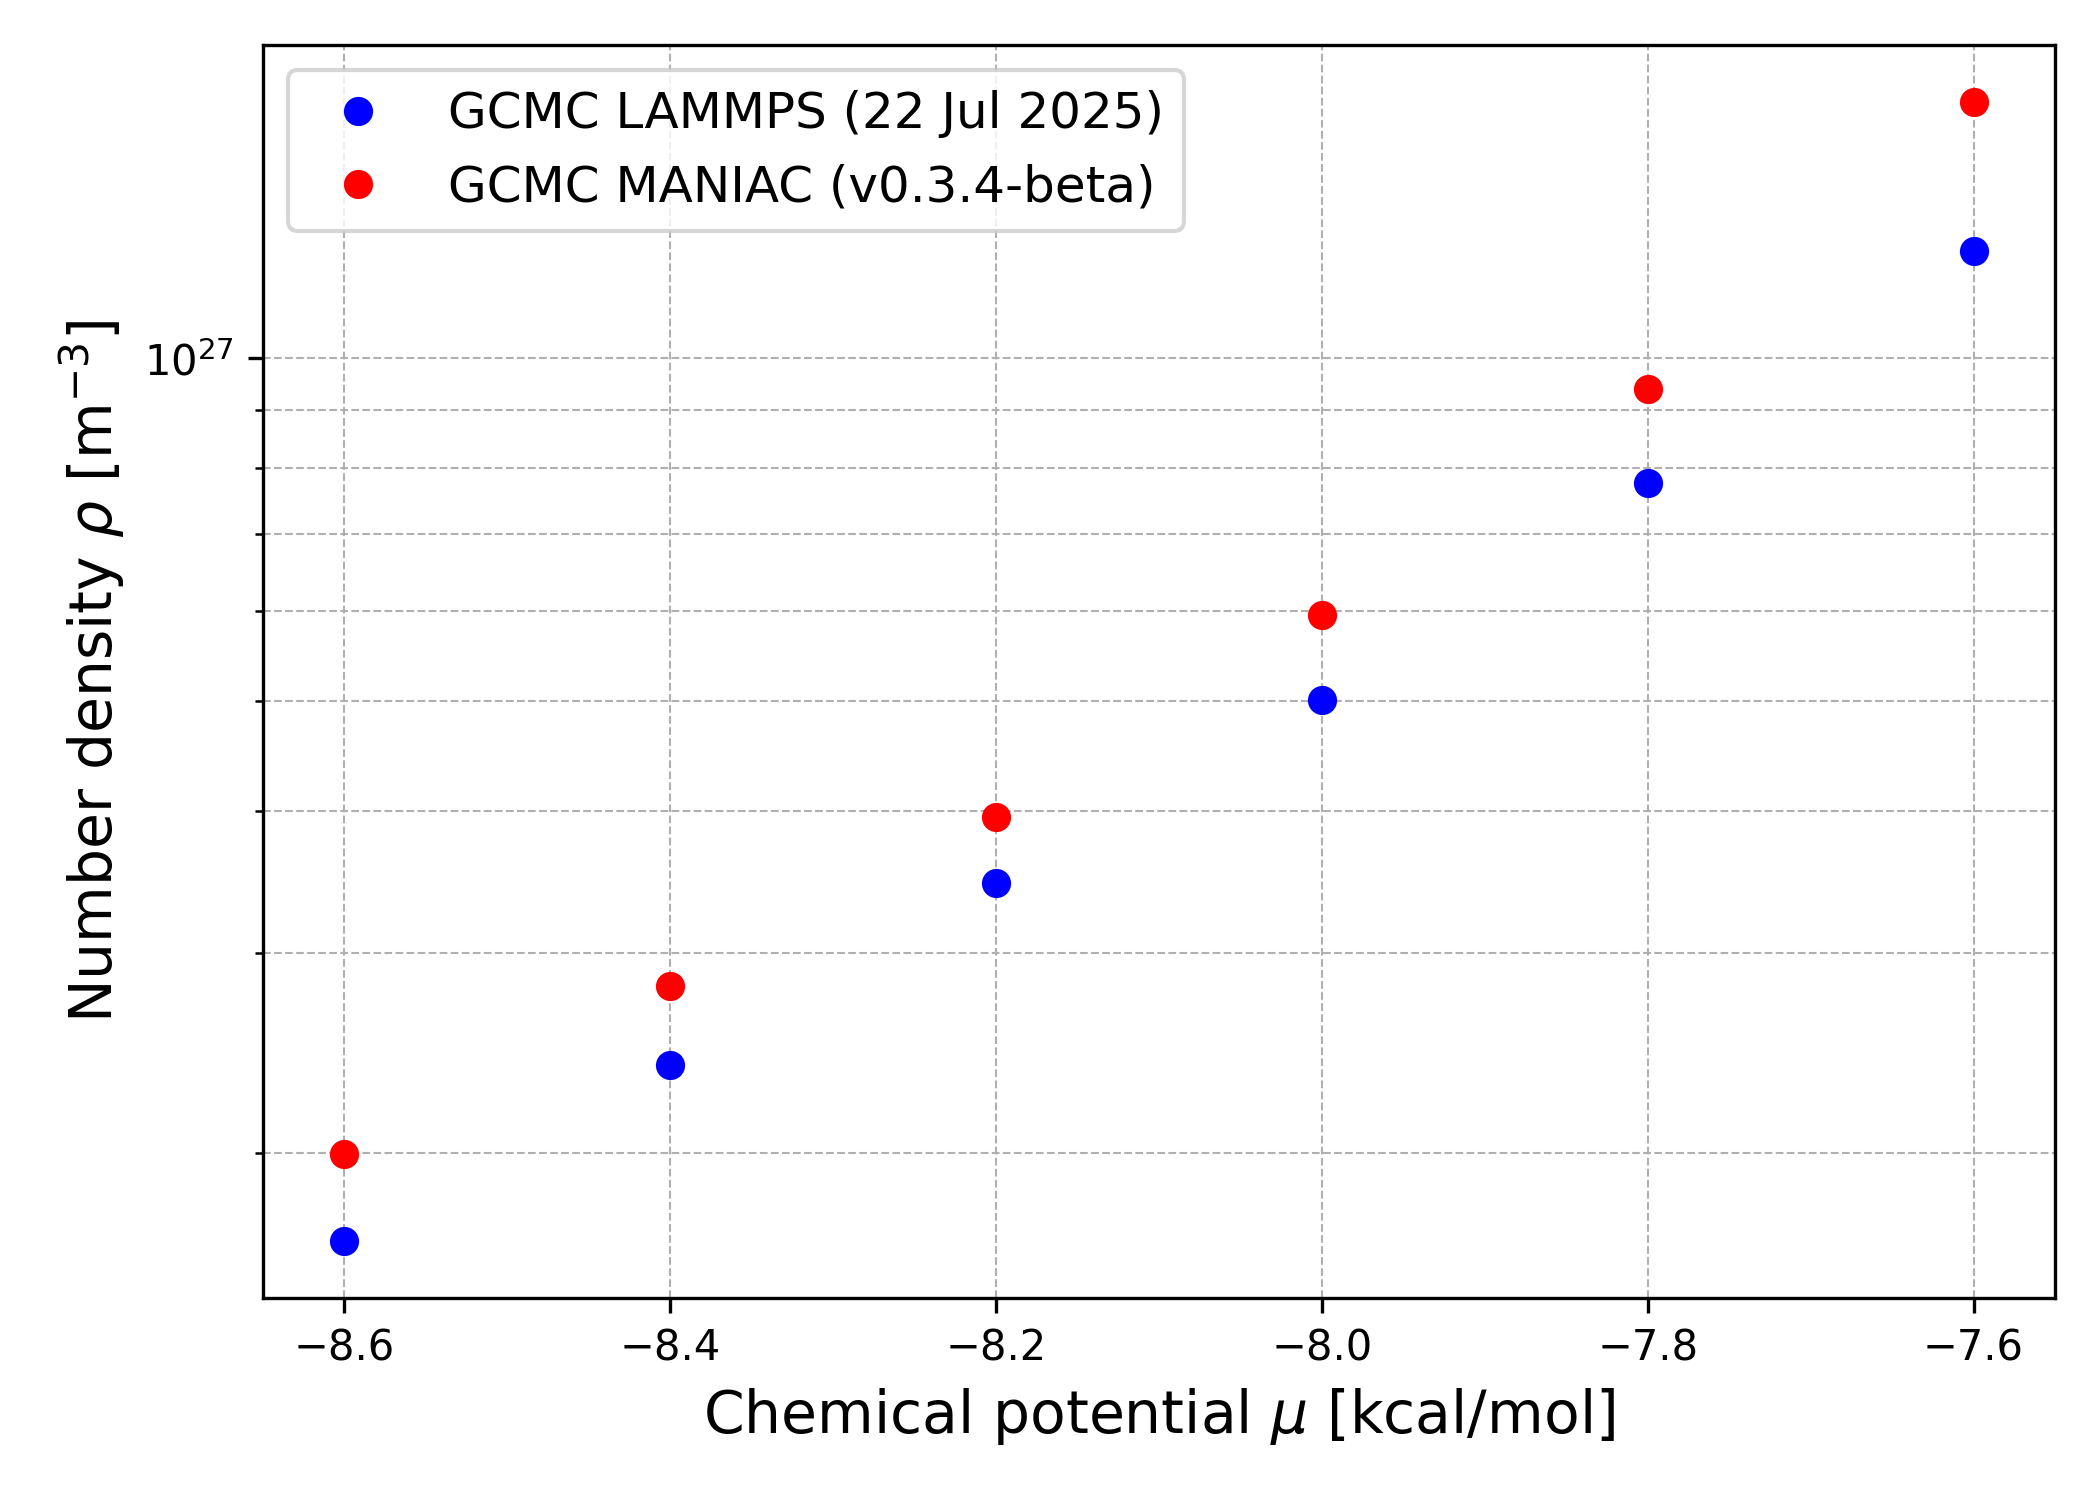
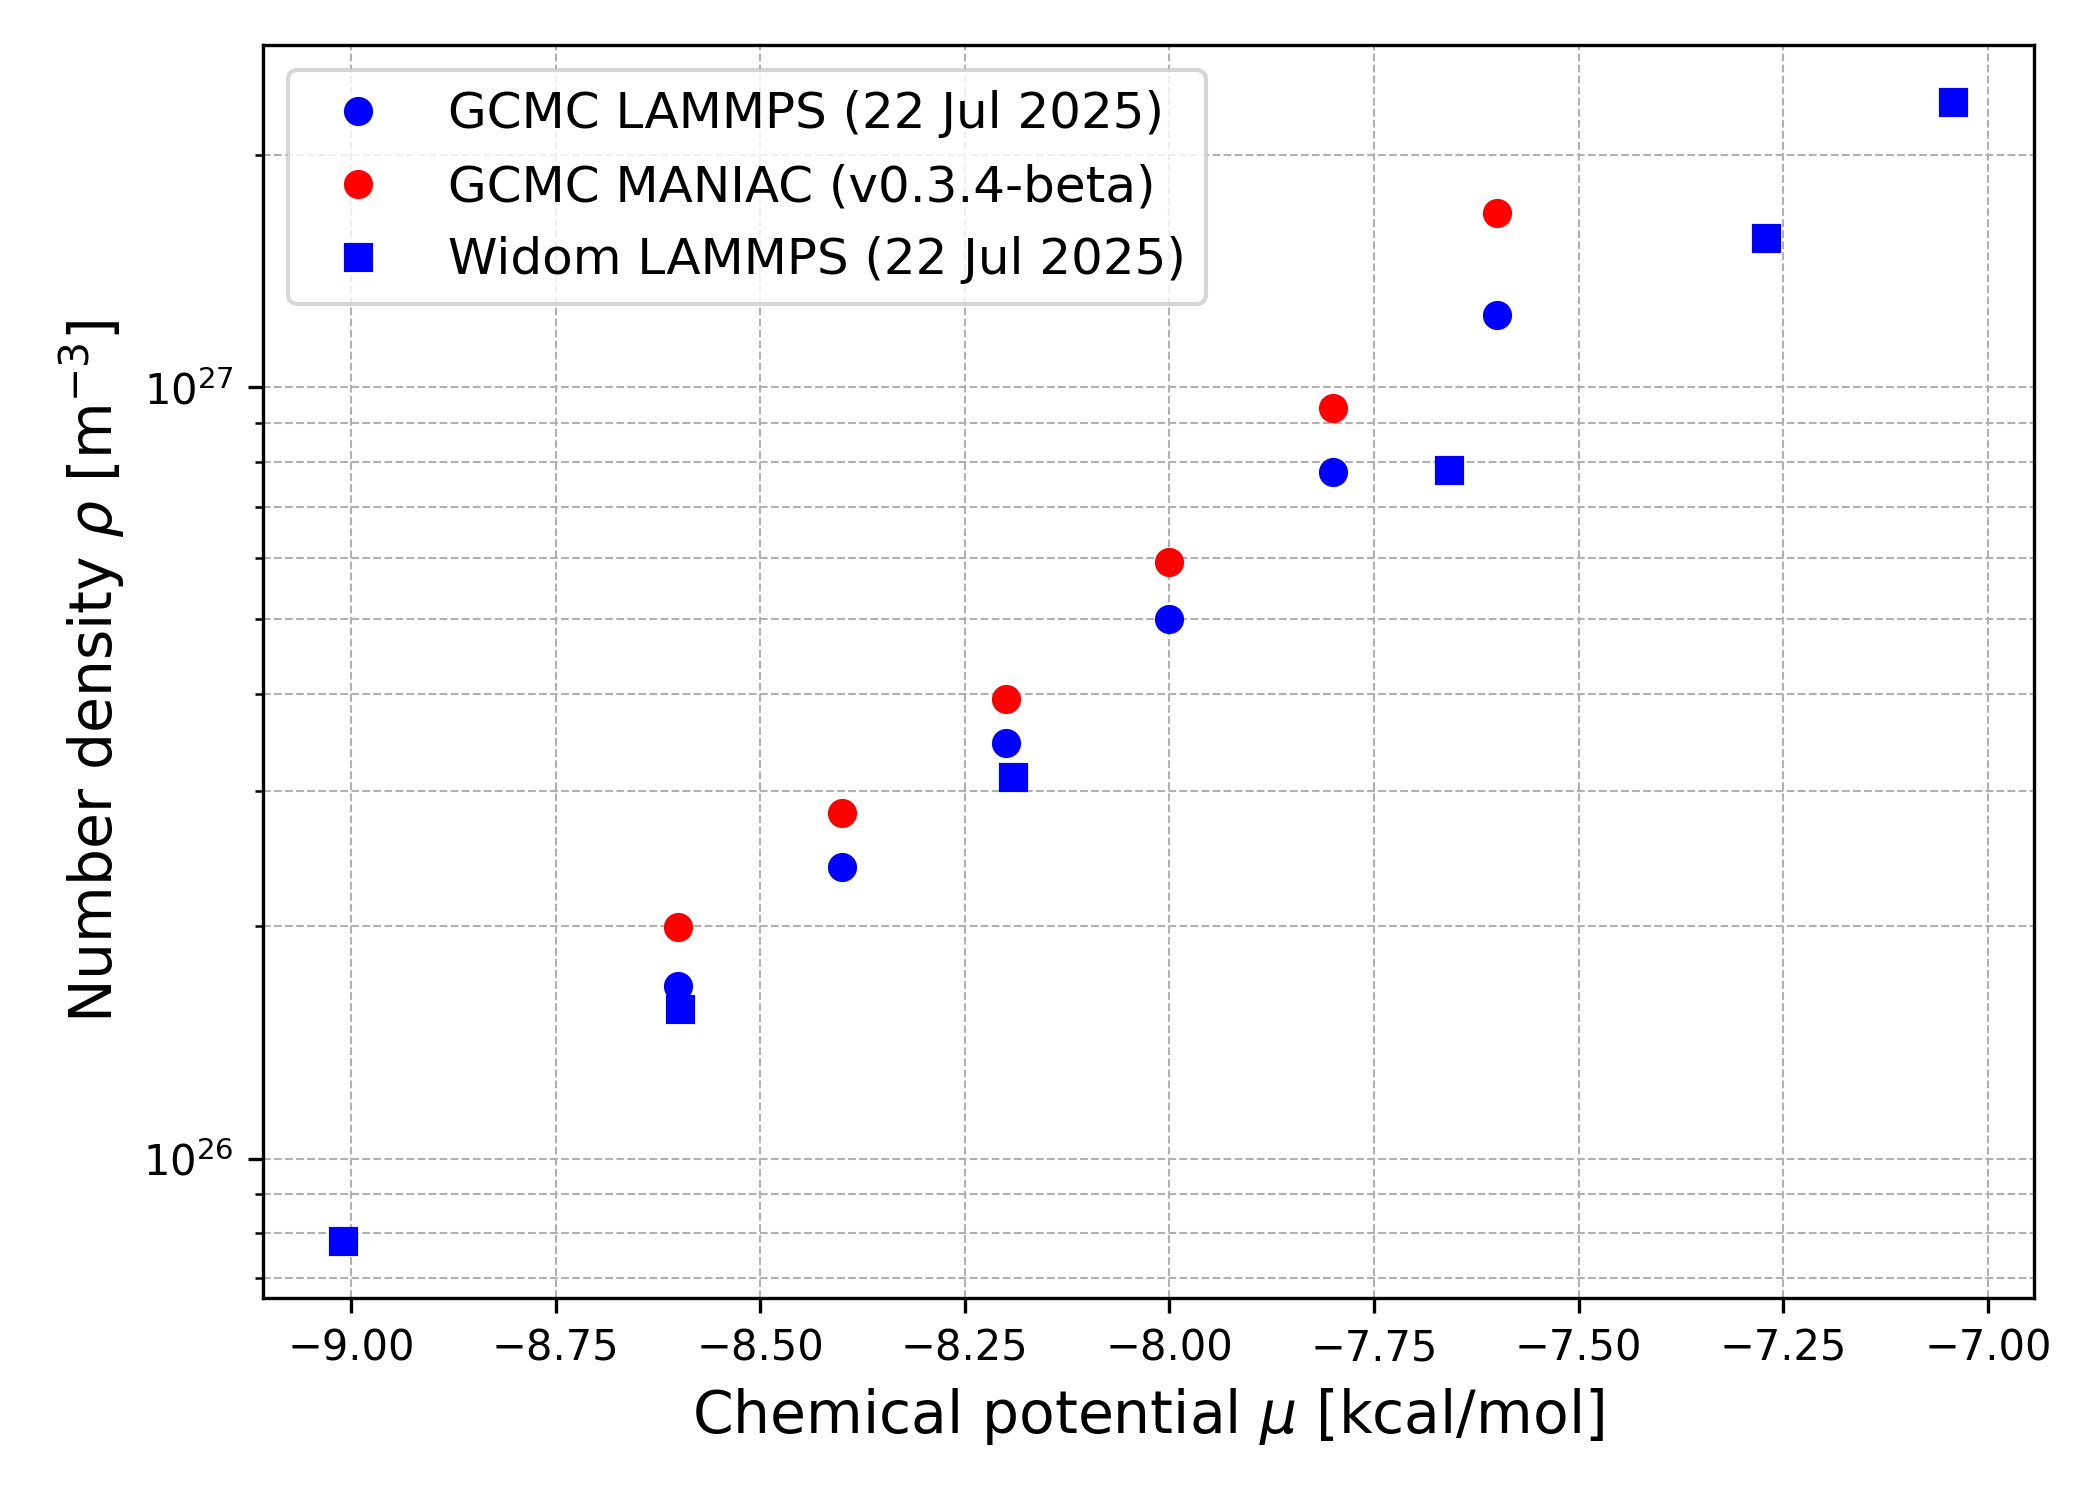
Added LAMMPS Widom

diff --git a/BulkCO2/Widom-chemical-potential-LAMMPS/extract_isotherm.py b/BulkCO2/Widom-chemical-potential-LAMMPS/extract_isotherm.py
@@ -1,0 +1,38 @@
+#!/usr/bin/env python
+# coding: utf-8
+
+import os
+import numpy as np
+import matplotlib.pyplot as plt
+
+base = "."
+
+number_vs_muex = []
+
+for folder in os.listdir(base): # Loop through folders
+
+    if folder.startswith("nb_"):
+
+        # Extract numeric pressure (e.g., "pressure_0.001atom")
+        nb_str = folder.replace("nb_", "").replace("kcalmol", "")
+        nb_flt = np.float32(nb_str)
+
+        # Read data file
+        widom_path = os.path.join(base, folder, "widom.dat")
+        if not os.path.exists(widom_path):
+            continue
+
+        # Read last non-empty line
+        step, muex, deltaU, volume = np.loadtxt(widom_path).T
+
+        mean_muex = np.mean(muex)
+        mean_deltaU = np.mean(deltaU)
+        mean_volume = np.mean(volume)
+
+        number_vs_muex.append([mean_muex, nb_flt])
+
+number_vs_muex = np.array(number_vs_muex)
+
+np.savetxt("number_vs_muex.dat", number_vs_muex, 
+           header="# muex (kcal/mol) N (average particle number)", 
+           comments='')
